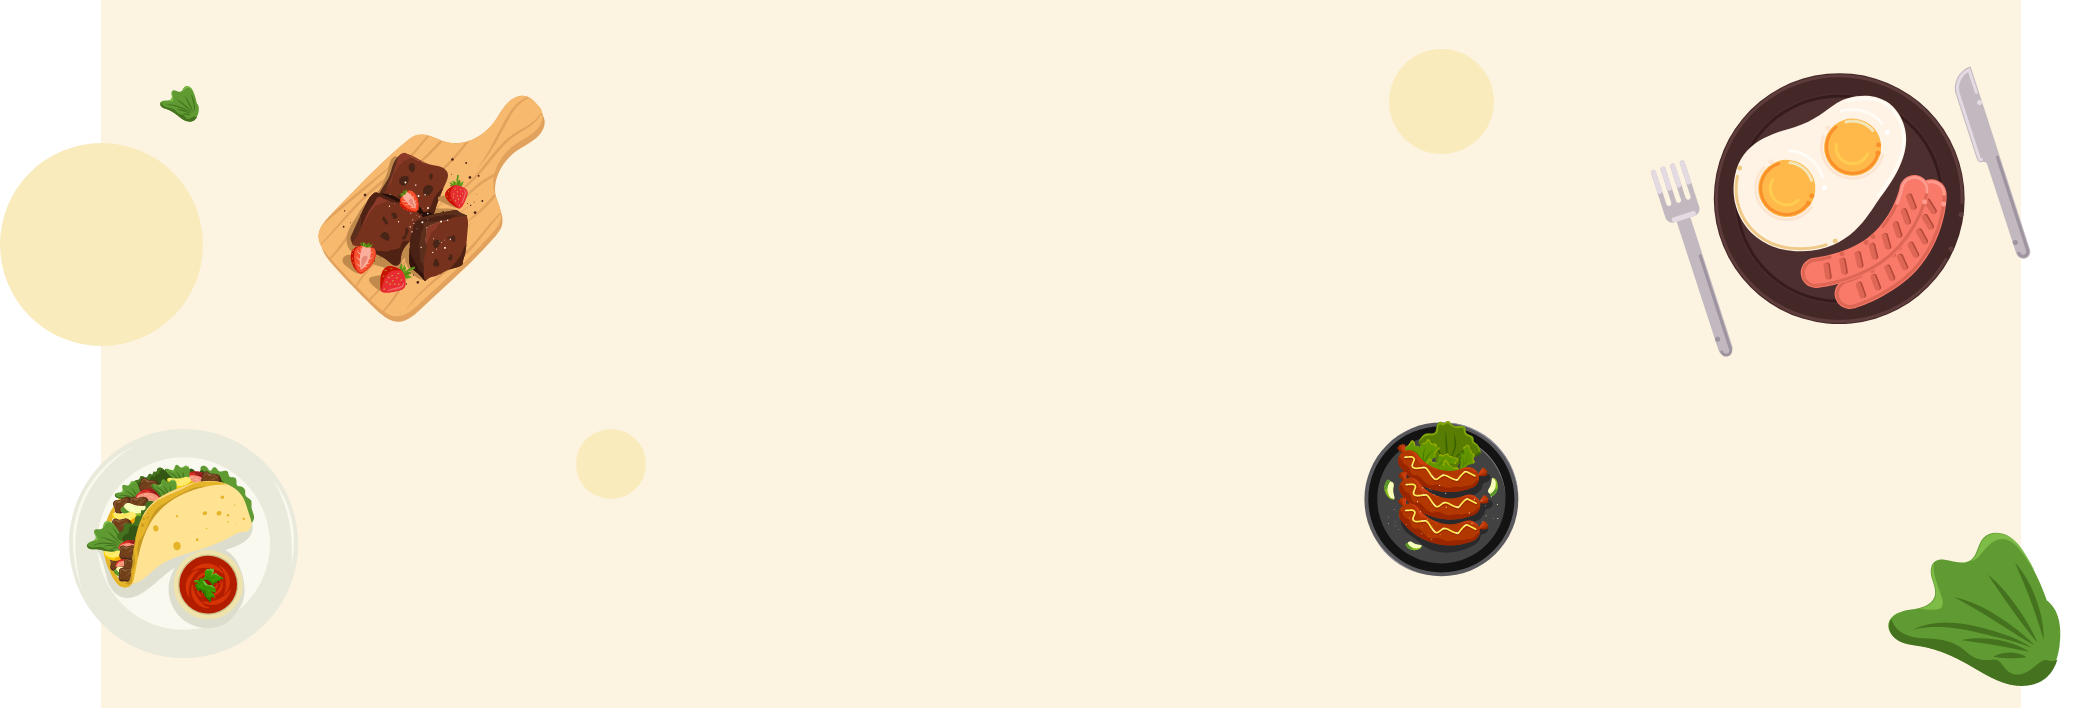
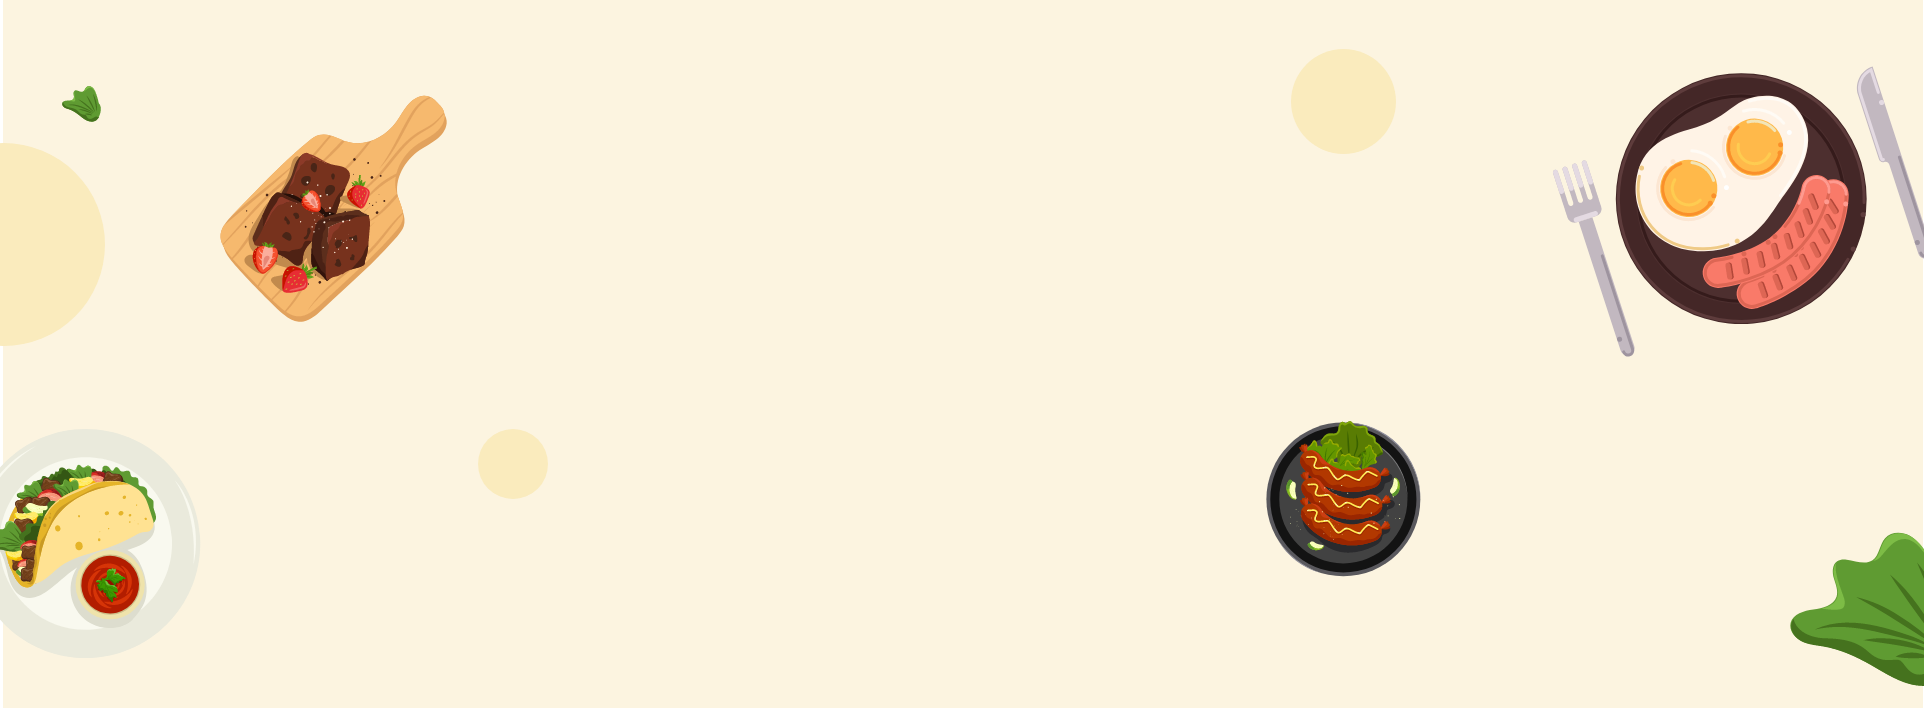
breakfast, lunch,dinner json file created

diff --git a/src/pages/Home/Banner/Banner.js b/src/pages/Home/Banner/Banner.js
@@ -2,8 +2,13 @@ import React from 'react';
 
 const Banner = () => {
     return (
-        <div className="bg-[url('/src/assets/images/bannerbackground.png')] bg-contain h-[500px]">
-           
+        <div className="bg-[url('/src/assets/images/bannerbackground.png')] bg-cover h-[400px] flex justify-center justify-center">
+           <div className="flex flex-col justify-center items-center">
+            <h3 className="text-4xl py-6 text-center">Best food waiting for your bally</h3>
+            <div className="flex justify-center items-center relative ">
+             <input className="rounded-l-full w-[300px] py-2 pl-6 shadow-md border-none" type="search" name="search food item" id="" placeholder="search food item" /><input className="bg-red-500 py-2 shadow-md px-6 rounded-full text-white absolute left-[230px]" type="button" value="Search" />
+            </div>
+           </div>
         </div>
     );
 };

diff --git a/src/pages/Shared/Header/Header.js b/src/pages/Shared/Header/Header.js
@@ -10,9 +10,9 @@ const Header = () => {
                 <img style={{width: '100px'}} src={logo} alt="" srcset="" />
             </div>
             <nav className="flex gap-4">
-                <Link className="mt-2" to='/'><FaShoppingCart/></Link>
-                <Link to='/'>Login</Link>
-                <Link className="" to='/'>Register</Link>
+                <Link className="mt-2 " to='/'><FaShoppingCart/></Link>
+                <Link className="focus:text-white focus:bg-red-600 px-4 py-1 focus:rounded-full" to='/'>Login</Link>
+                <Link className="focus:text-white focus:bg-red-600 px-4 py-1 focus:rounded-full" to='/'>Register</Link>
             </nav>
         </div>
     );

diff --git a/src/pages/Home/Items/Items.js b/src/pages/Home/Items/Items.js
@@ -1,9 +1,16 @@
 import React from 'react';
+import {Link} from 'react-router-dom'
 
 const Items = () => {
     return (
-        <div>
-           <h1>This is items page</h1> 
+        <div className="py-20">
+           <div className="flex justify-center items-center">
+                <nav className="flex gap-6">
+                    <Link className="font-semibold focus:text-red-500" to='/'>Breakfast</Link>
+                    <Link className="font-semibold focus:text-red-500" to='/'>Lunch</Link>
+                    <Link className="font-semibold focus:text-red-500" to='/'>Dinner</Link>
+                </nav>
+           </div>
         </div>
     );
 };

diff --git a/src/pages/Home/Home/Home.js b/src/pages/Home/Home/Home.js
@@ -1,12 +1,14 @@
 import React from 'react';
 import Header from '../../Shared/Header/Header';
 import Banner from '../Banner/Banner';
+import Items from '../Items/Items';
 
 const Home = () => {
     return (
         <div>
             <Header/>
             <Banner/>
+            <Items/>
         </div>
     );
 };
